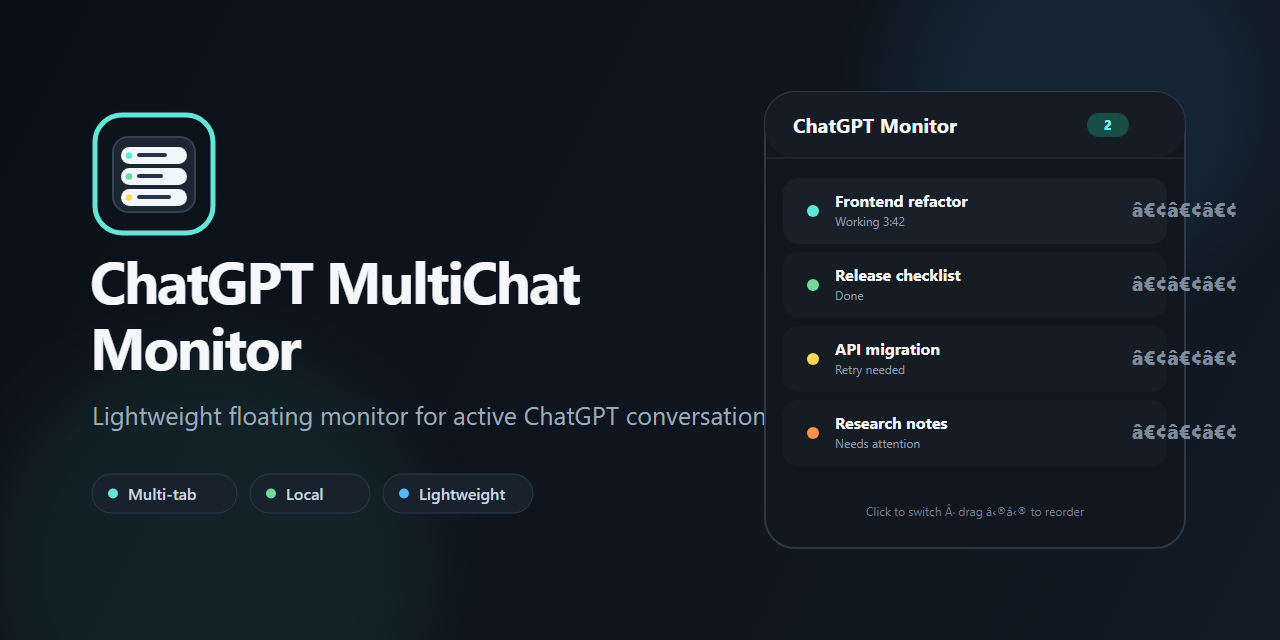
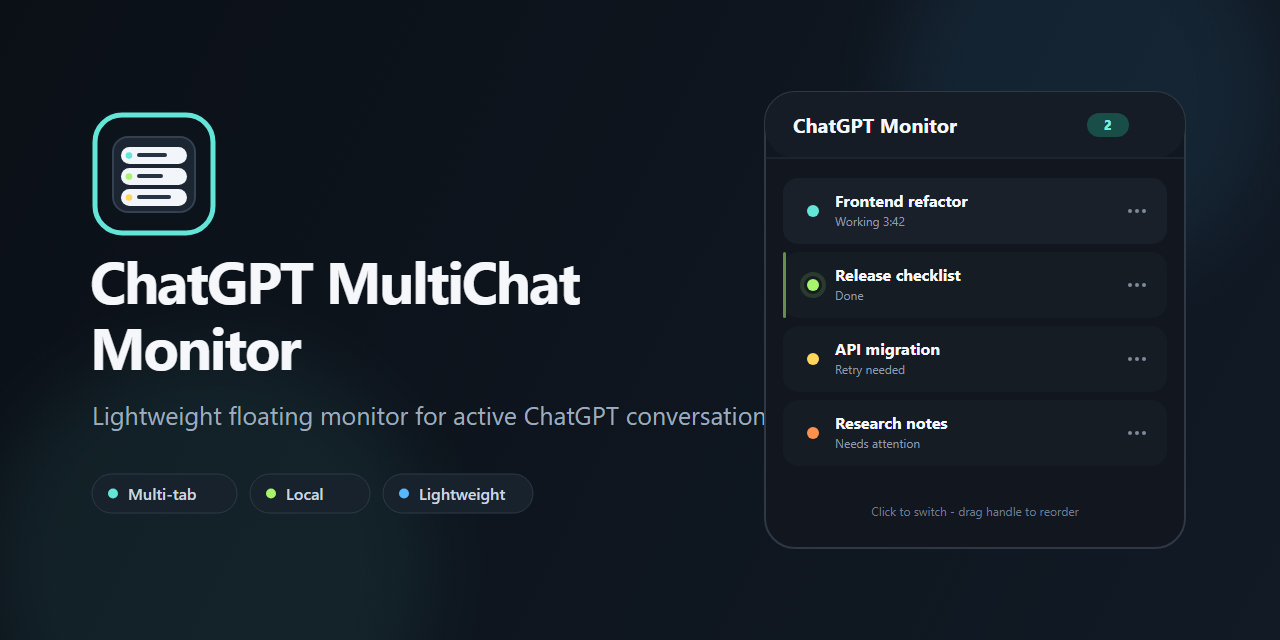
Improve Done visibility and repair social preview

diff --git a/content.js b/content.js
@@ -862,7 +862,7 @@
       "font-weight:800;cursor:pointer}.more:hover{background:#28303b;color:white}" +
       ".dot{width:9px;height:9px;border-radius:50%;background:#687386;flex:0 0 auto}" +
       ".state-working .dot{background:#63e6d7;box-shadow:0 0 0 3px rgba(99,230,215,.09);animation:workingpulse 1.35s ease-in-out infinite}" +
-      ".state-finished .dot{background:#72d99b}.state-interrupted .dot{background:#f2bd68}" +
+      ".state-finished .dot{background:#a7f36b;box-shadow:0 0 0 3px rgba(167,243,107,.1),0 0 10px rgba(167,243,107,.24)}.chat-row.state-finished{box-shadow:inset 2px 0 0 rgba(167,243,107,.48)}.state-interrupted .dot{background:#f2bd68}" +
       ".state-retry .dot{background:#ffd65a;box-shadow:0 0 0 3px rgba(255,214,90,.08)}" +
       ".state-attention .dot{background:#ff914d;box-shadow:0 0 0 3px rgba(255,145,77,.08)}" +
       ".state-error .dot{background:#ee7070}.state-draft .dot{background:#a78bfa;box-shadow:0 0 0 3px rgba(167,139,250,.07)}" +

diff --git a/README.md b/README.md
@@ -86,7 +86,7 @@
 </p>
 
 <p align="center">
-  <sub>The cyan <strong>Working</strong> LED pulses while ChatGPT is generating, then switches to green <strong>Done</strong>.</sub>
+  <sub>The cyan <strong>Working</strong> LED pulses while ChatGPT is generating, then switches to lime <strong>Done</strong>.</sub>
 </p>
 
 ## What it does
@@ -94,7 +94,7 @@
 ChatGPT MultiChat Monitor keeps a small floating panel on `chatgpt.com` and shares the status of your other open ChatGPT tabs.
 
 - Live **Working** state with elapsed time.
-- **Done** stays green until you actually visit that chat.
+- **Done** stays lime until you actually visit that chat.
 - A non-empty prompt composer is shown as **Draft** instead of Idle; active generation still remains **Working** while you prepare the next prompt.
 - Detects recoverable **Retry needed** states, likely **Needs attention** responses and visible **Errors**.
 - Click any row to focus the correct tab and browser window.
@@ -111,7 +111,7 @@ ChatGPT MultiChat Monitor keeps a small floating panel on `chatgpt.com` and shar
 | State | LED | Meaning |
 | --- | --- | --- |
 | **Working** | Cyan, pulsing | ChatGPT is currently generating. |
-| **Done** | Green | Generation finished normally and has not been visited yet. |
+| **Done** | Lime | Generation finished normally and has not been visited yet. |
 | **Retry needed** | Yellow | A recoverable timeout, delivery/network problem or Retry action was detected. |
 | **Needs attention** | Orange | The response likely ended with a question or request for user input. |
 | **Error** | Red | A visible non-recoverable ChatGPT error was detected. |
@@ -119,7 +119,7 @@ ChatGPT MultiChat Monitor keeps a small floating panel on `chatgpt.com` and shar
 | **Draft** | Violet | The prompt box contains unsent text and no higher-priority state is active. |
 | **Idle** | Gray | No current or unread activity. Hidden by default unless requested or pinned. |
 
-A normal **Done** keeps only a short late-error grace window for detection; after that it remains green without continuing error scans until you visit it.
+A normal **Done** keeps only a short late-error grace window for detection; after that it remains lime without continuing error scans until you visit it.
 
 ## Multi-chat controls
 

diff --git a/CHANGELOG.md b/CHANGELOG.md
@@ -2,6 +2,7 @@
 
 ## Unreleased
 
+- Made unread **Done** much easier to distinguish from **Working**: Done now uses a brighter lime LED with a subtle glow and left-edge accent.
 - Added a lightweight update checker for manual GitHub installs. It checks stable releases at most once every 24 hours and stores only version/timestamp metadata.
 - Added an **Update available** popup card with **View release** and per-version **Dismiss** actions.
 - Added a low-priority **↑** extension badge for available updates; chat attention and Working badges still take priority.
